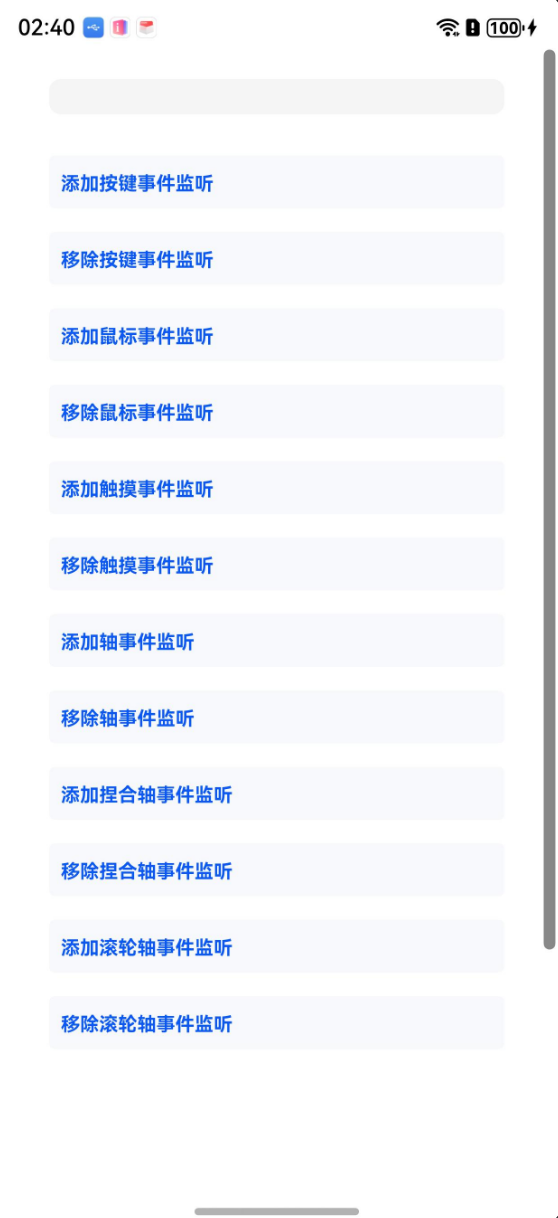
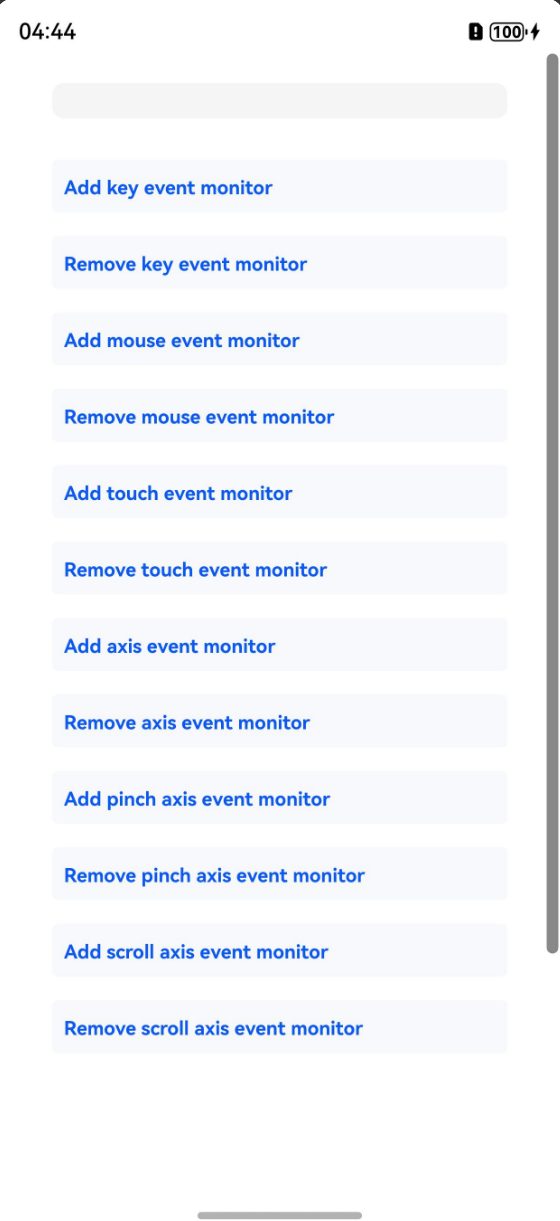
fix des

diff --git a/code/DocsSample/input/NDKInputEventMonitor/entry/src/main/cpp/napi_init.cpp b/code/DocsSample/input/NDKInputEventMonitor/entry/src/main/cpp/napi_init.cpp
@@ -72,7 +72,7 @@ void OnKeyEventCallback(const Input_KeyEvent* keyEvent)
     event.actionTime = OH_Input_GetKeyEventActionTime(keyEvent);
     // [StartExclude key_event_monitor]
     std::ostringstream oss;
-    oss << "监听到按键事件 action:"  << event.action
+    oss << "Key event detected  action:"  << event.action
     << " keyCode: " << event.keyCode
     << " actionTime:" << event.actionTime;
     g_value = oss.str();
@@ -138,7 +138,7 @@ void OnMouseEventCallback(const Input_MouseEvent* mouseEvent)
     event.actionTime = OH_Input_GetMouseEventActionTime(mouseEvent);
     // [StartExclude mouse_event_monitor]
     std::ostringstream oss;
-    oss << "监听到鼠标事件 action:"  << event.action
+    oss << "Mouse event detected  action:"  << event.action
     << " displayX: " << event.displayX
     << " displayY:" << event.displayY
     << " button:" << event.button
@@ -156,9 +156,9 @@ static napi_value AddMouseEventMonitor(napi_env env, napi_callback_info info)
     // [StartExclude mouse_event_monitor]
     std::string message = "";
     if (ret == INPUT_SUCCESS) {
-        message = "填加鼠标事件监听成功，返回码为" + std::to_string(ret);
+        message = "Mouse event monitor added successfully, return code: " + std::to_string(ret);
     } else {
-        message = "填加鼠标事件监听失败，返回码为" + std::to_string(ret);
+        message = "Failed to add mouse event monitor, return code: " + std::to_string(ret);
     }
     napi_value result;
     napi_create_string_utf8(env, message.c_str(), message.size(), &result);
@@ -172,9 +172,9 @@ static napi_value RemoveMouseEventMonitor(napi_env env, napi_callback_info info)
     // [StartExclude mouse_event_monitor]
     std::string message = "";
     if (ret == INPUT_SUCCESS) {
-        message = "Remove mouse event monitor successfully, return " + std::to_string(ret);
+        message = "Remove mouse event monitor successfully, return code: " + std::to_string(ret);
     } else {
-        message = "Remove mouse event monitor failed, return " + std::to_string(ret);
+        message = "Remove mouse event monitor failed, return code: " + std::to_string(ret);
     }
     napi_value result;
     napi_create_string_utf8(env, message.c_str(), message.size(), &result);
@@ -203,7 +203,7 @@ void OnTouchEventCallback(const Input_TouchEvent* touchEvent)
     event.actionTime = OH_Input_GetTouchEventActionTime(touchEvent);
     // [StartExclude touch_event_monitor]
     std::ostringstream oss;
-    oss << "监听到触摸事件 action:"  << event.action
+    oss << "Touch event detected   action:"  << event.action
     << " displayX: " << event.displayX
     << " displayY:" << event.displayY
     << " id:" << event.id
@@ -219,9 +219,9 @@ static napi_value AddTouchEventMonitor(napi_env env, napi_callback_info info)
     // [StartExclude touch_event_monitor]
     std::string message = "";
     if (ret == INPUT_SUCCESS) {
-        message = "填加触摸事件监听成功，返回码为" + std::to_string(ret);
+        message = "Touch event monitor added successfully, return code:" + std::to_string(ret);
     } else {
-        message = "填加触摸事件监听失败，返回码为" + std::to_string(ret);
+        message = "Failed to add touch event monitor, return code: " + std::to_string(ret);
     }
     napi_value result;
     napi_create_string_utf8(env, message.c_str(), message.size(), &result);
@@ -288,7 +288,7 @@ void OnAllAxisEventCallback(const Input_AxisEvent* axisEvent)
     }
     // [StartExclude axis_event_monitor]
     std::ostringstream oss;
-    oss << "监听到轴事件 axisAction:"  << event.axisAction
+    oss << "Axis event detected   axisAction:"  << event.axisAction
     << " displayX:" << event.displayX
     << " displayY:" << event.displayY
     << " sourceType:" << event.sourceType
@@ -327,7 +327,7 @@ void OnPinchAxisEventCallback(const Input_AxisEvent* axisEvent)
     event.axisValues.insert(std::make_pair(AXIS_TYPE_ROTATE, value));
     // [StartExclude axis_event_monitor]
     std::ostringstream oss;
-    oss << "监听到捏合类型轴事件 axisAction:"  << event.axisAction
+    oss << "Pinch axis event detected   axisAction:"  << event.axisAction
     << " displayX: " << event.displayX
     << " displayY:" << event.displayY
     << " sourceType:" << event.sourceType
@@ -365,7 +365,7 @@ void OnScrollAxisEventCallback(const Input_AxisEvent* axisEvent)
     event.axisValues.insert(std::make_pair(AXIS_TYPE_SCROLL_HORIZONTAL, value));
     // [StartExclude axis_event_monitor]
     std::ostringstream oss;
-    oss << "监听到滚轮类型轴事件 axisAction:"  << event.axisAction
+    oss << "Scroll axis event detected   axisAction:"  << event.axisAction
     << " displayX: " << event.displayX
     << " displayY:" << event.displayY
     << " sourceType:" << event.sourceType
@@ -466,9 +466,9 @@ static napi_value RemoveScrollAxisEventMonitor(napi_env env, napi_callback_info 
     // [StartExclude axis_event_monitor]
     std::string message = "";
     if (ret == INPUT_SUCCESS) {
-        message = "移除滚轮事件监听成功，返回码为" + std::to_string(ret);
+        message = "Mouse event listener removed successfully, return code:" + std::to_string(ret);
     } else {
-        message = "移除滚轮事件监听失败，返回码为" + std::to_string(ret);
+        message = "Failed to remove mouse event listener, return code:" + std::to_string(ret);
     }
     napi_value result;
     napi_create_string_utf8(env, message.c_str(), message.size(), &result);

diff --git a/code/DocsSample/input/NDKInputEventInterceptor/entry/src/main/cpp/napi_init.cpp b/code/DocsSample/input/NDKInputEventInterceptor/entry/src/main/cpp/napi_init.cpp
@@ -72,9 +72,9 @@ void OnKeyEventCallback(const Input_KeyEvent* keyEvent)
     event.actionTime = OH_Input_GetKeyEventActionTime(keyEvent);
     // [StartExclude key_event_interceptor]
     std::ostringstream oss;
-    oss << "监听到按键事件 action："  << event.action
-    << " keyCode： " << event.keyCode
-    << " actionTime：" << event.actionTime;
+    oss << "Key event detected   action:"  << event.action
+    << " keyCode: " << event.keyCode
+    << " actionTime: " << event.actionTime;
     g_value = oss.str();
     NotifyValueChange();
     // [EndExclude key_event_interceptor]
@@ -156,7 +156,7 @@ void OnMouseEventCallback(const Input_MouseEvent* mouseEvent)
     event.actionTime = OH_Input_GetMouseEventActionTime(mouseEvent);
     // [StartExclude input_event_interceptor]
     std::ostringstream oss;
-    oss << "监听到鼠标事件 action："  << event.action
+    oss << "Mouse event detected   action："  << event.action
     << " displayX： " << event.displayX
     << " displayY：" << event.displayY
     << " button：" << event.button
@@ -180,7 +180,7 @@ void OnTouchEventCallback(const Input_TouchEvent* touchEvent)
     event.actionTime = OH_Input_GetTouchEventActionTime(touchEvent);
     // [StartExclude input_event_interceptor]
     std::ostringstream oss;
-    oss << "监听到触摸事件 action："  << event.action
+    oss << "Touch event detected action："  << event.action
     << " displayX： " << event.displayX
     << " displayY：" << event.displayY
     << " id：" << event.id
@@ -223,7 +223,7 @@ void OnAxisEventCallback(const Input_AxisEvent* axisEvent)
     }
     // [StartExclude input_event_interceptor]
     std::ostringstream oss;
-    oss << "监听到轴事件 axisAction："  << event.axisAction
+    oss << "Axis event detected axisAction："  << event.axisAction
     << " displayX： " << event.displayX
     << " displayY：" << event.displayY
     << " sourceType：" << event.sourceType
@@ -253,9 +253,9 @@ static napi_value AddEventInterceptor(napi_env env, napi_callback_info info)
     // [StartExclude input_event_interceptor]
     std::string message = "";
     if (ret == INPUT_SUCCESS) {
-        message = "填加输入事件拦截成功，返回码为" + std::to_string(ret);
+        message = "Input event interception added successfully, return code: " + std::to_string(ret);
     } else {
-        message = "填加输入事件拦截失败，返回码为" + std::to_string(ret);
+        message = "Failed to add input event interception, return code: " + std::to_string(ret);
     }
     napi_value result;
     napi_create_string_utf8(env, message.c_str(), message.size(), &result);
@@ -269,9 +269,9 @@ static napi_value RemoveEventInterceptor(napi_env env, napi_callback_info info)
     // [StartExclude input_event_interceptor]
     std::string message = "";
     if (ret == INPUT_SUCCESS) {
-        message = "移除输入拦截成功，返回码为" + std::to_string(ret);
+        message = "Input event interception removed successfully, return code: " + std::to_string(ret);
     } else {
-        message = "移除输入拦截失败，返回码为" + std::to_string(ret);
+        message = "Failed to remove input event interception, return code: " + std::to_string(ret);
     }
     napi_value result;
     napi_create_string_utf8(env, message.c_str(), message.size(), &result);
